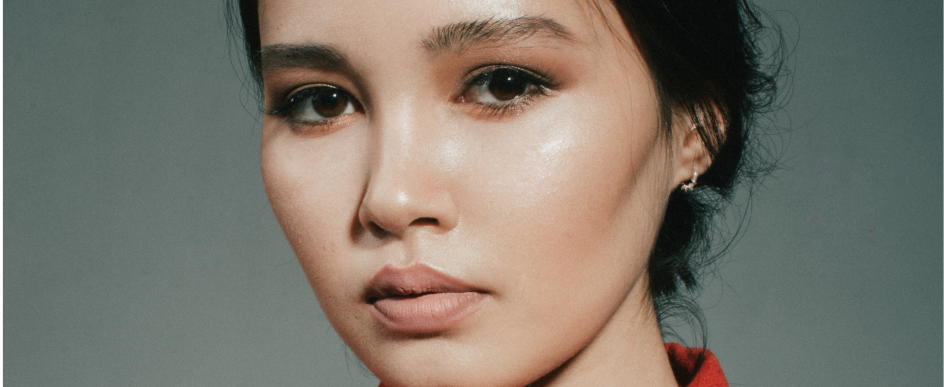
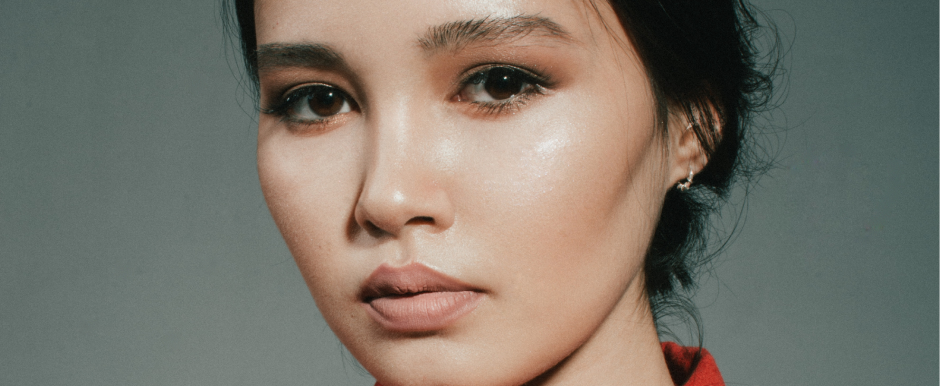
new

diff --git a/css/style.scss b/css/style.scss
@@ -235,7 +235,6 @@ body {
     text-align: center;
     opacity: 0;
     transition: all 0.3s ease 0s;
-    max-width: 100%;
 }
 .slider__item.slick-active {
     opacity: 1;

diff --git a/css/style.css b/css/style.css
@@ -217,7 +217,6 @@ body {
   text-align: center;
   opacity: 0;
   transition: all 0.3s ease 0s;
-  max-width: 100%;
 }
 
 .slider__item.slick-active {
